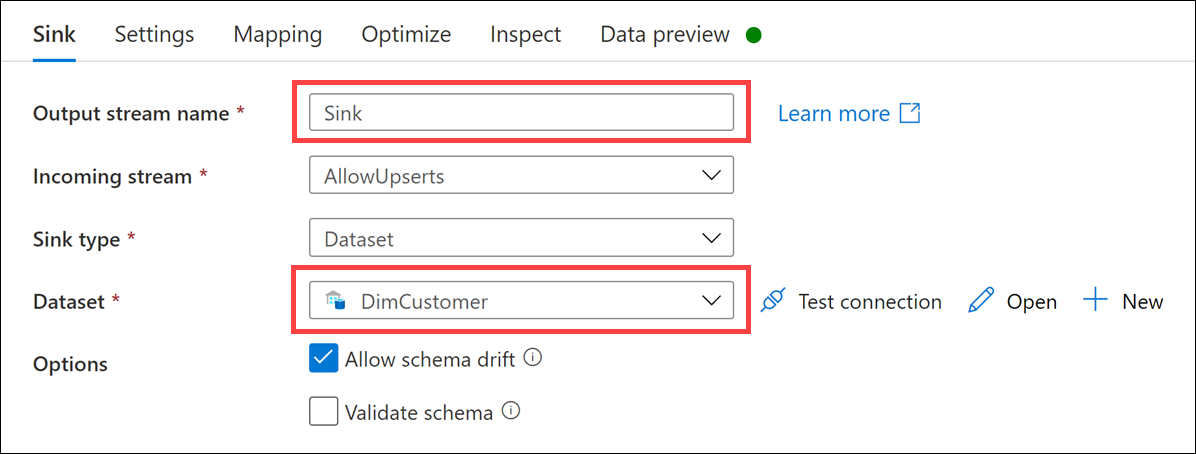
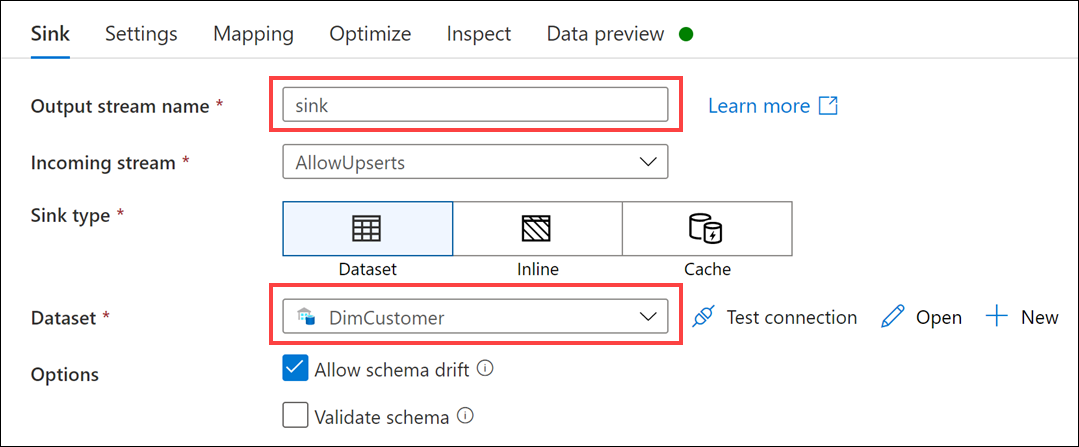
Update for UI changes

diff --git a/Instructions/Labs/02/README.md b/Instructions/Labs/02/README.md
@@ -12,6 +12,7 @@ In this module, the student will be able to:
 - [Module 2 - Design and Implement the serving layer](#module-2---design-and-implement-the-serving-layer)
   - [Lab details](#lab-details)
     - [Lab setup and pre-requisites](#lab-setup-and-pre-requisites)
+  - [Exercise 0: Start the dedicated SQL pool](#exercise-0-start-the-dedicated-sql-pool)
     - [Exercise 1: Implementing a Star Schema](#exercise-1-implementing-a-star-schema)
       - [Task 1: Create star schema in SQL database](#task-1-create-star-schema-in-sql-database)
     - [Exercise 2: Implementing a Snowflake Schema](#exercise-2-implementing-a-snowflake-schema)
@@ -37,11 +38,31 @@ In this module, the student will be able to:
 
 ### Lab setup and pre-requisites
 
-> **Note:** Only complete the `Lab setup and pre-requisites` steps if you are **not** using a hosted lab environment, and are instead using your own Azure subscription. Otherwise, skip ahead to Exercise 1.
+> **Note:** Only complete the `Lab setup and pre-requisites` steps if you are **not** using a hosted lab environment, and are instead using your own Azure subscription. Otherwise, skip ahead to Exercise 0.
 
 1. If you have not already, follow the [lab setup instructions](https://github.com/solliancenet/microsoft-data-engineering-ilt-deploy/blob/main/setup/02/README.md) for this module.
 
 2. Install [Azure Data Studio](https://docs.microsoft.com/sql/azure-data-studio/download-azure-data-studio?view=sql-server-ver15) on your computer or lab virtual machine.
+
+## Exercise 0: Start the dedicated SQL pool
+
+This lab uses the dedicated SQL pool. As a first step, make sure it is not paused. If so, start it by following these instructions:
+
+1. Open Synapse Studio (<https://web.azuresynapse.net/>).
+
+2. Select the **Manage** hub.
+
+    ![The manage hub is highlighted.](media/manage-hub.png "Manage hub")
+
+3. Select **SQL pools** in the left-hand menu **(1)**. If the dedicated SQL pool is paused, hover over the name of the pool and select **Resume (2)**.
+
+    ![The resume button is highlighted on the dedicated SQL pool.](media/resume-dedicated-sql-pool.png "Resume")
+
+4. When prompted, select **Resume**. It will take a minute or two to resume the pool.
+
+    ![The resume button is highlighted.](media/resume-dedicated-sql-pool-confirm.png "Resume")
+
+> **Continue to the next exercise** while the dedicated SQL pool resumes.
 
 ### Exercise 1: Implementing a Star Schema
 
@@ -1393,7 +1414,7 @@ Linked services in Synapse Analytics enables you to manage connections to extern
     - **Database name**: Select `SourceDB`
     - **Authentication type**: Select `SQL authentication`
     - **Username**: Enter `sqladmin`
-    - **Password**: Enter the password you provided during the environment setup (also used at the beginning of this lab)
+    - **Password**: Enter the password you provided during the environment setup, or that was given to you if this is a hosted lab environment (also used at the beginning of this lab)
 
     ![The form is completed as described.](media/new-linked-service-sql-form.png "New linked service form")
 
@@ -1531,7 +1552,7 @@ In this task, you create a mapping data flow to create a Type 1 SCD.
 
     ![The value field is highlighted.](media/dimcustomer-dataset.png "DimCustomer dataset")
 
-26. Select **+** to the right of the `CreateCustomerHash` derived column on the canvas, then select **Exists**.
+26. Switch back to your data flow. *Do not* close the `DimCustomer` dataset. Select **+** to the right of the `CreateCustomerHash` derived column on the canvas, then select **Exists**.
 
     ![The plus button and exists menu item are both highlighted.](media/data-flow-new-exists.png "New Exists")
 
@@ -1674,9 +1695,13 @@ In this task, you create a new Synapse integration pipeline to execute the mappi
 
     ![The data flow has an arrow from the activities pane to the canvas on the right.](media/pipeline-add-data-flow.png "Add data flow activity")
 
-5. In the `Adding data flow` dialog, select **Use existing data flow**, then select the `UpdateCustomerDimension` data flow. Select **OK** to close the dialog.
+5. Under the `General` tab, enter **UpdateCustomerDimension** for the name.
 
-    ![The data flow is selected in the dialog.](media/pipeline-add-data-flow-dialog.png "Adding data flow")
+    ![The name is entered as described.](media/pipeline-dataflow-general.png "General")
+
+6. Under the `Settings` tab, select the **UpdateCustomerDimension** data flow.
+
+    ![The settings are configured as described.](media/pipeline-dataflow-settings.png "Data flow settings")
 
 6. Select **Publish all**, then select **Publish** in the dialog that appears.
 
